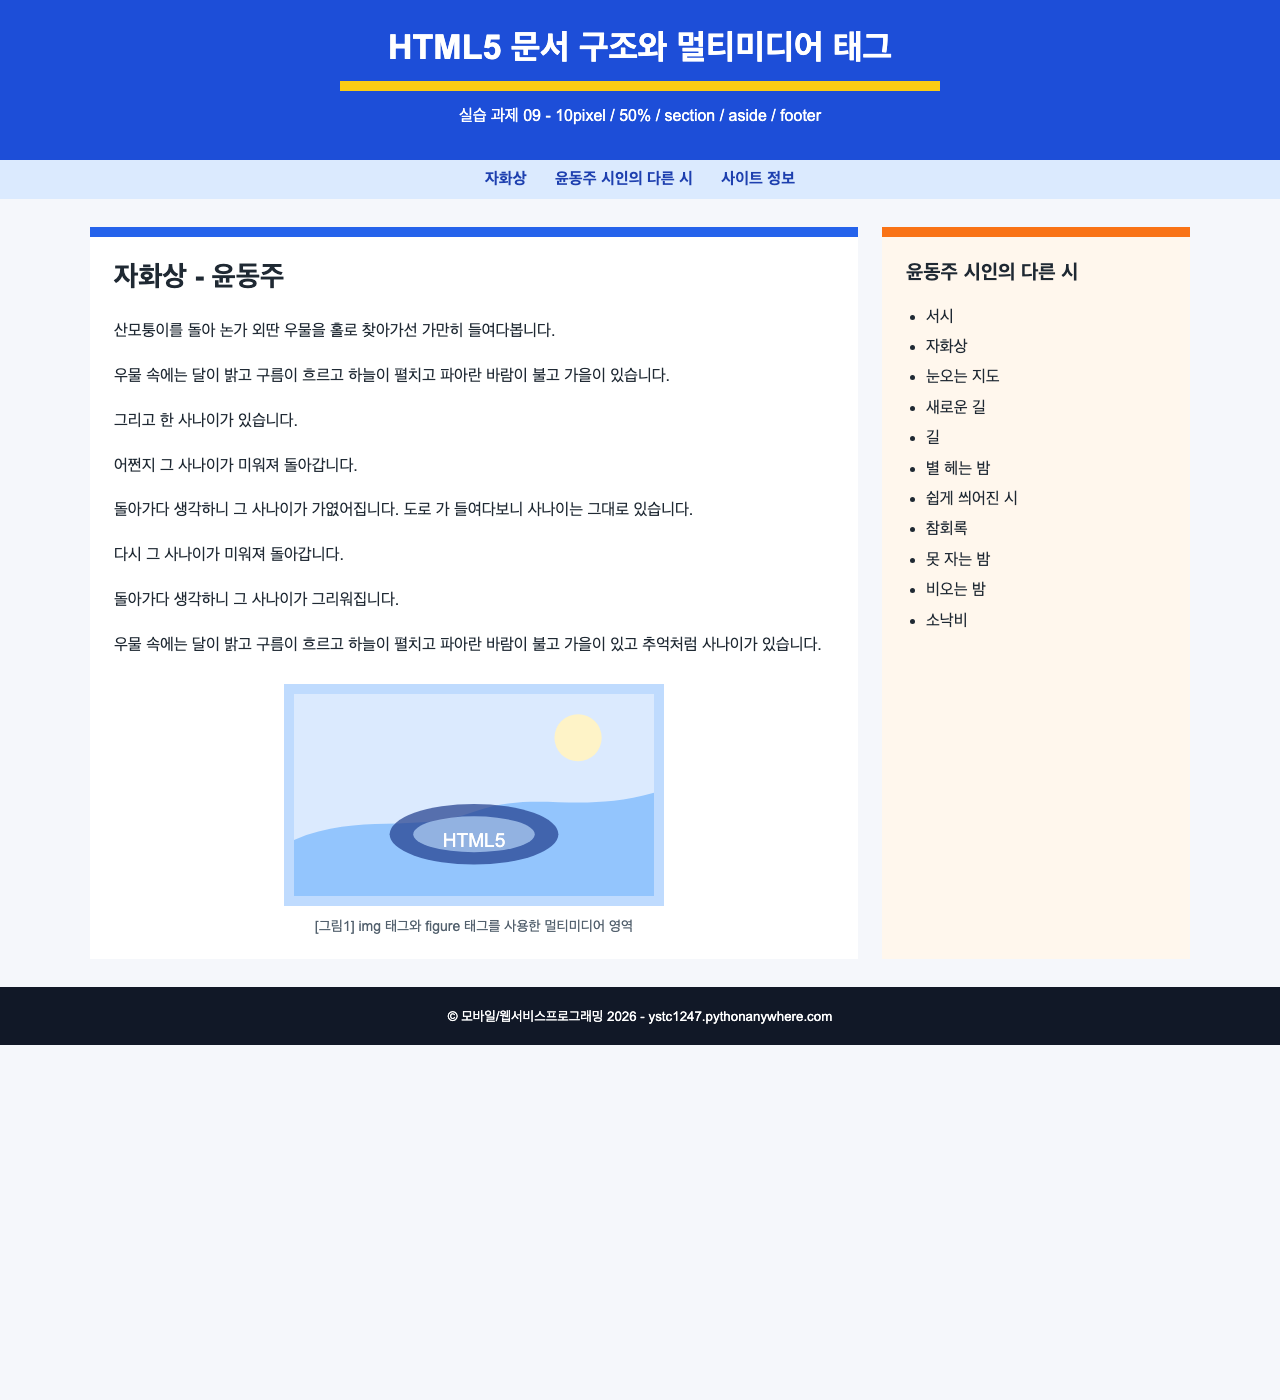
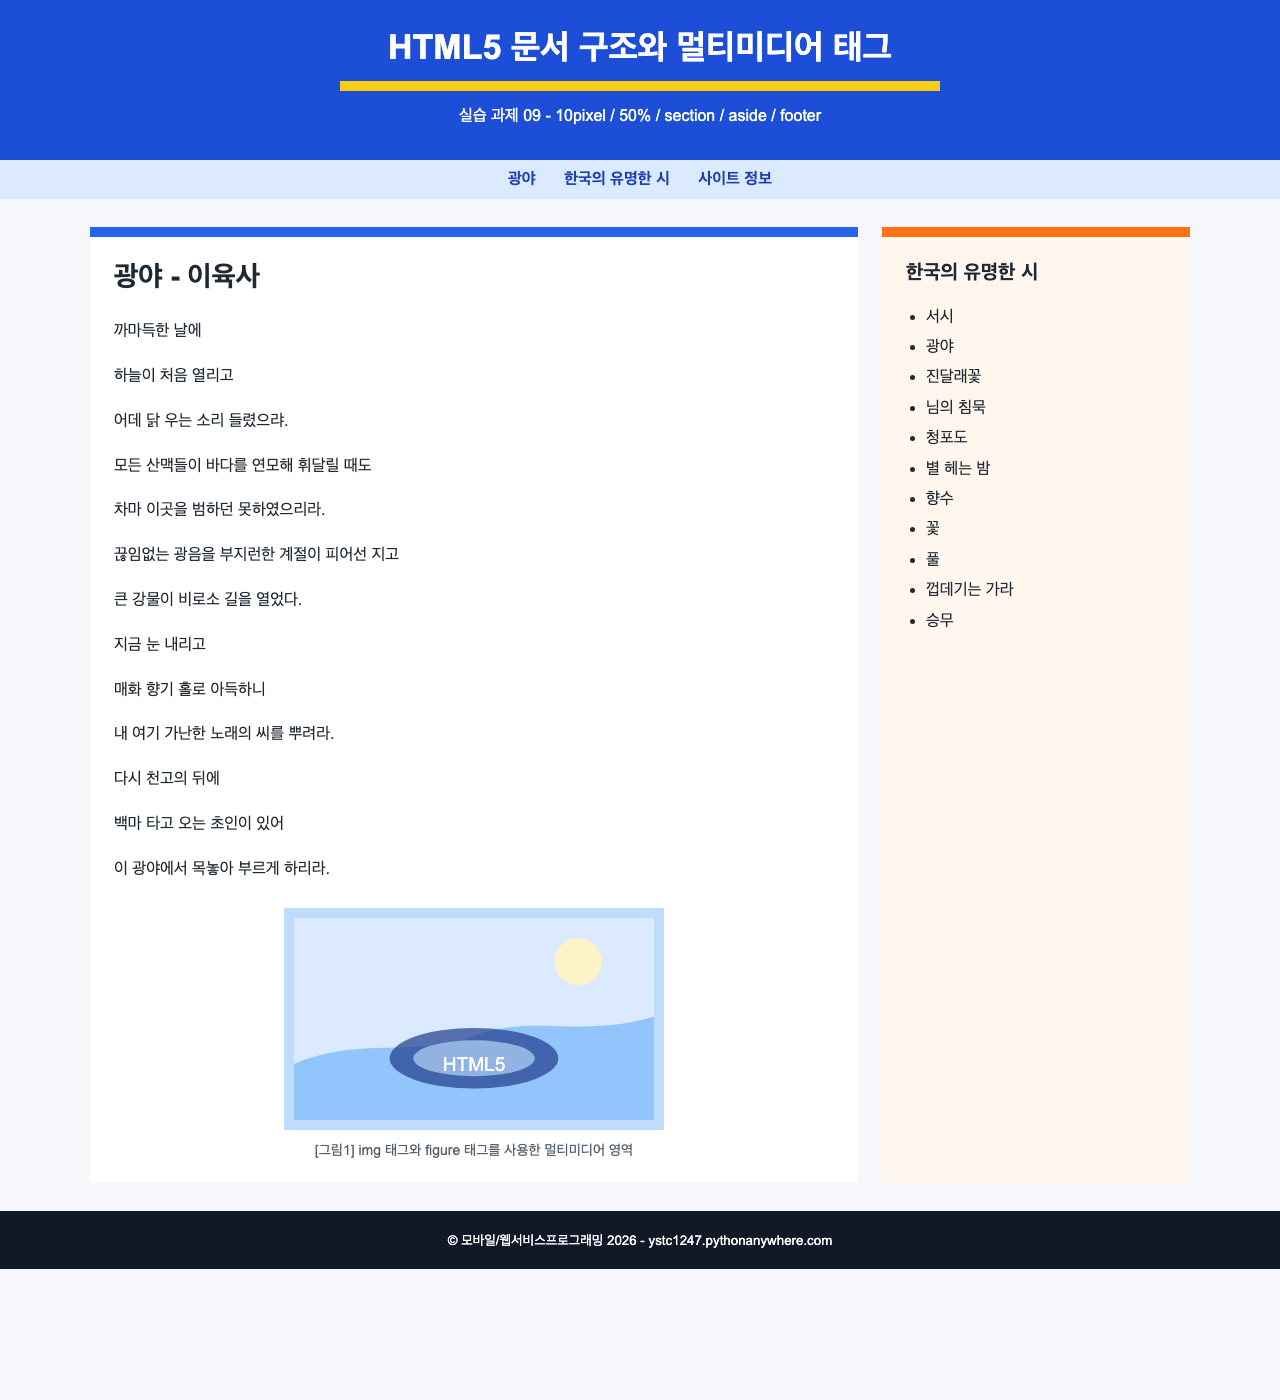
Switch HTML5 assignment poem to Gwangya

diff --git a/blog/templates/blog/assignment09.html b/blog/templates/blog/assignment09.html
@@ -137,23 +137,28 @@
     </header>
 
     <nav>
-        <a href="#poem">자화상</a>
-        <a href="#poems">윤동주 시인의 다른 시</a>
+        <a href="#poem">광야</a>
+        <a href="#poems">한국의 유명한 시</a>
         <a href="#footer">사이트 정보</a>
     </nav>
 
     <main>
         <section id="poem">
             <article>
-                <h2>자화상 - 윤동주</h2>
-                <p>산모퉁이를 돌아 논가 외딴 우물을 홀로 찾아가선 가만히 들여다봅니다.</p>
-                <p>우물 속에는 달이 밝고 구름이 흐르고 하늘이 펼치고 파아란 바람이 불고 가을이 있습니다.</p>
-                <p>그리고 한 사나이가 있습니다.</p>
-                <p>어쩐지 그 사나이가 미워져 돌아갑니다.</p>
-                <p>돌아가다 생각하니 그 사나이가 가엾어집니다. 도로 가 들여다보니 사나이는 그대로 있습니다.</p>
-                <p>다시 그 사나이가 미워져 돌아갑니다.</p>
-                <p>돌아가다 생각하니 그 사나이가 그리워집니다.</p>
-                <p>우물 속에는 달이 밝고 구름이 흐르고 하늘이 펼치고 파아란 바람이 불고 가을이 있고 추억처럼 사나이가 있습니다.</p>
+                <h2>광야 - 이육사</h2>
+                <p>까마득한 날에</p>
+                <p>하늘이 처음 열리고</p>
+                <p>어데 닭 우는 소리 들렸으랴.</p>
+                <p>모든 산맥들이 바다를 연모해 휘달릴 때도</p>
+                <p>차마 이곳을 범하던 못하였으리라.</p>
+                <p>끊임없는 광음을 부지런한 계절이 피어선 지고</p>
+                <p>큰 강물이 비로소 길을 열었다.</p>
+                <p>지금 눈 내리고</p>
+                <p>매화 향기 홀로 아득하니</p>
+                <p>내 여기 가난한 노래의 씨를 뿌려라.</p>
+                <p>다시 천고의 뒤에</p>
+                <p>백마 타고 오는 초인이 있어</p>
+                <p>이 광야에서 목놓아 부르게 하리라.</p>
 
                 <figure>
                     <img
@@ -165,19 +170,19 @@
         </section>
 
         <aside id="poems">
-            <h2>윤동주 시인의 다른 시</h2>
+            <h2>한국의 유명한 시</h2>
             <ul>
                 <li>서시</li>
-                <li>자화상</li>
-                <li>눈오는 지도</li>
-                <li>새로운 길</li>
-                <li>길</li>
+                <li>광야</li>
+                <li>진달래꽃</li>
+                <li>님의 침묵</li>
+                <li>청포도</li>
                 <li>별 헤는 밤</li>
-                <li>쉽게 씌어진 시</li>
-                <li>참회록</li>
-                <li>못 자는 밤</li>
-                <li>비오는 밤</li>
-                <li>소낙비</li>
+                <li>향수</li>
+                <li>꽃</li>
+                <li>풀</li>
+                <li>껍데기는 가라</li>
+                <li>승무</li>
             </ul>
         </aside>
     </main>

diff --git a/blog/tests.py b/blog/tests.py
@@ -8,7 +8,7 @@ class PostListViewTests(TestCase):
 
         self.assertEqual(response.status_code, 200)
         self.assertContains(response, '실습 과제 09')
-        self.assertContains(response, '자화상 - 윤동주')
+        self.assertContains(response, '광야 - 이육사')
         self.assertContains(response, 'section / aside / footer')
 
     def test_post_list_renders_custom_template(self):